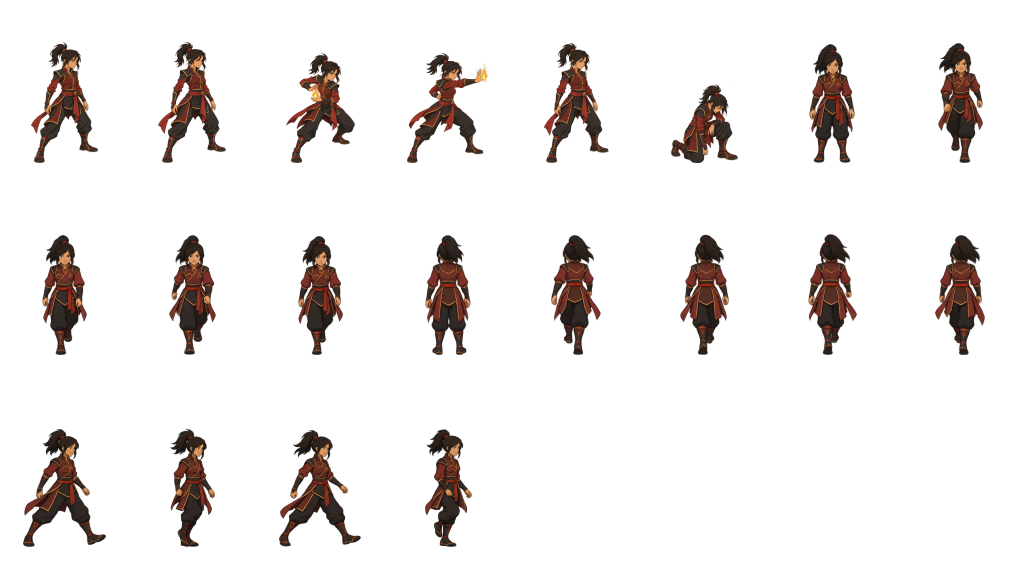
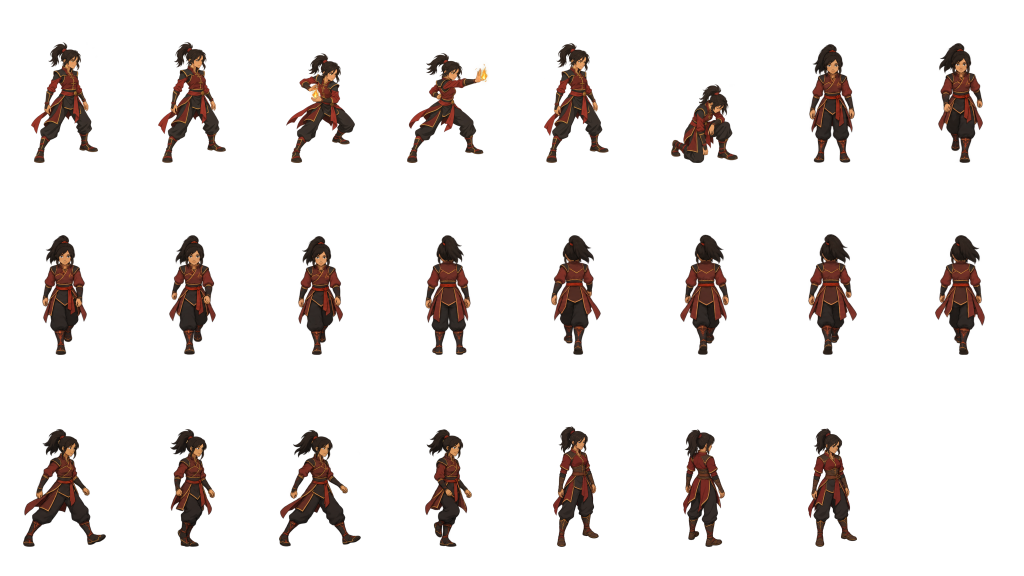
Add relaxed exploration rests for Kaya and Sura

Changed region(s): [[0.5312, 0.7188, 0.5938, 0.9688], [0.7812, 0.75, 0.8438, 0.9688], [0.6562, 0.75, 0.7188, 0.9688]]

diff --git a/scripts/art/rest-poses.ts b/scripts/art/rest-poses.ts
@@ -1,5 +1,5 @@
 /** Append three relaxed exploration poses; every existing frame stays pixel-identical.
- * npx tsx scripts/art/rest-poses.ts nima <three-column-transparent-sheet.png>
+ * npx tsx scripts/art/rest-poses.ts <hero> <three-column-transparent-sheet.png>
  */
 import { readFileSync, writeFileSync } from 'node:fs';
 import { readPng, writePng, newImage, pixelAt, setPixel } from './lib/image';
@@ -10,8 +10,8 @@ import { splitGrid } from './split-sheet';
 import { parseAtlasJson } from '../../src/render/sheets/atlasJson';
 
 const [name, input] = process.argv.slice(2);
-if (name !== 'nima' || !input)
-  throw new Error('Pilot accepts nima and a transparent three-column PNG.');
+if (!name || !['nima', 'kaya', 'sura', 'bo', 'wen'].includes(name) || !input)
+  throw new Error('Provide an approved courtyard hero and a transparent three-column PNG.');
 const stem = `public/art/units/walking-${name}`;
 const original = readPng(`${stem}.png`);
 const atlas = parseAtlasJson(readFileSync(`${stem}.json`, 'utf8'));

diff --git a/src/content/assets/manifest.ts b/src/content/assets/manifest.ts
@@ -94,7 +94,7 @@ const heroSheet = (key: string, palette: string): SheetEntry => {
       idleSouth: { frames: frames('idleSouth', 1), fps: 1, loop: true },
       walkNorth: { frames: frames('walkNorth', 4), fps: 4, loop: true },
       walkSouth: { frames: frames('walkSouth', 4), fps: 4, loop: true },
-      ...(name === 'nima'
+      ...(!key.startsWith('unit.village.') && ['nima', 'kaya', 'sura'].includes(name)
         ? {
             rest: { frames: frames('rest', 1), fps: 1, loop: true },
             restNorth: { frames: frames('restNorth', 1), fps: 1, loop: true },

diff --git a/docs/art/party-rest-poses.md b/docs/art/party-rest-poses.md
@@ -1,0 +1,29 @@
+# Courtyard party rest poses
+
+The accepted Nima pilot (ADR 0025) extends in small reviewed batches. Each hero
+gets three optional exploration poses in unused cells of the existing atlas;
+combat, walking, frame dimensions and feet anchors retain their prior contract.
+The packer compares all twenty previous frames pixel-for-pixel before writing.
+Riverside-specific outfit sheets do not inherit the normal-outfit rest clips.
+
+## Batch one: Kaya and Sura
+
+Original OpenAI image-tool artwork, 18 September 2026. Identity references were
+the corresponding `assets/reference/character-poses/{name}.png` sheets, inspected
+before generation. Same original-art licence/provenance as the existing units.
+
+| Hero | Source                                          | Direction                                                                                                         |
+| ---- | ----------------------------------------------- | ----------------------------------------------------------------------------------------------------------------- |
+| Kaya | `exec-237ea828-1268-48ff-bdce-4db2ecc6760f.png` | Preserve high ponytail, red/brown outfit, gold edging, charcoal trousers and wrapped boots.                       |
+| Sura | `exec-6095b891-aca9-43e4-a58d-004d7b32fe33.png` | Preserve long dark hair, muted blue robe, cream crossing collar and patterned hem, sash, pouch and wrapped boots. |
+
+Shared prompt requirements: three equal cells in one transparent horizontal row;
+relaxed screen-right three-quarter, up-right rear and down-right front poses;
+adult proportions, equal body height, natural hip-width stance with hands down;
+elevated orthographic camera, fine brown ink, flat cel base and one shadow tone,
+warm upper-left light; no effects, ground shadow, scenery, text or combat stance.
+
+Packing uses `rest-poses.ts`, uniform shared pose scale per hero from the original
+idle height, then the established foot baseline. All forty pre-existing frames
+were unchanged. Unit family size after this batch: 3.92 MB of the 4 MB budget.
+Integrated stop/turn/walk review is still required before accepting this batch.
